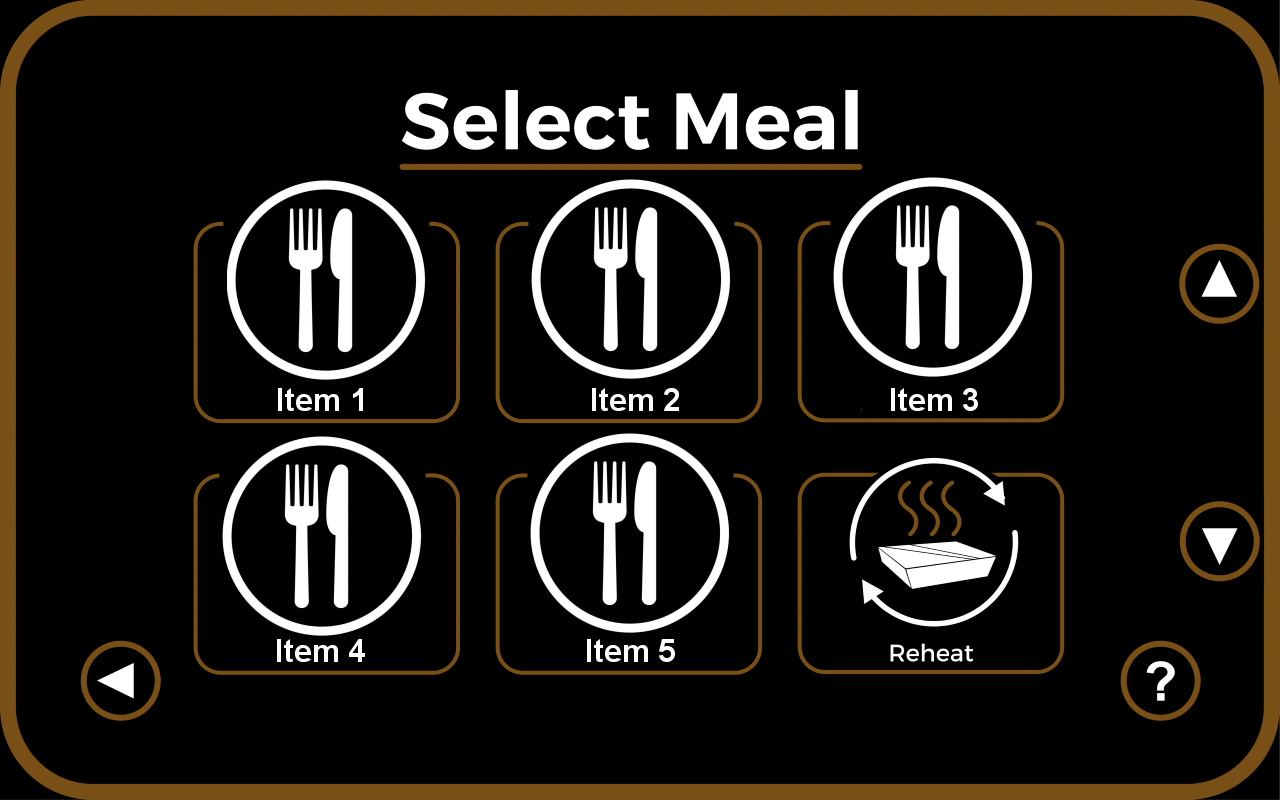
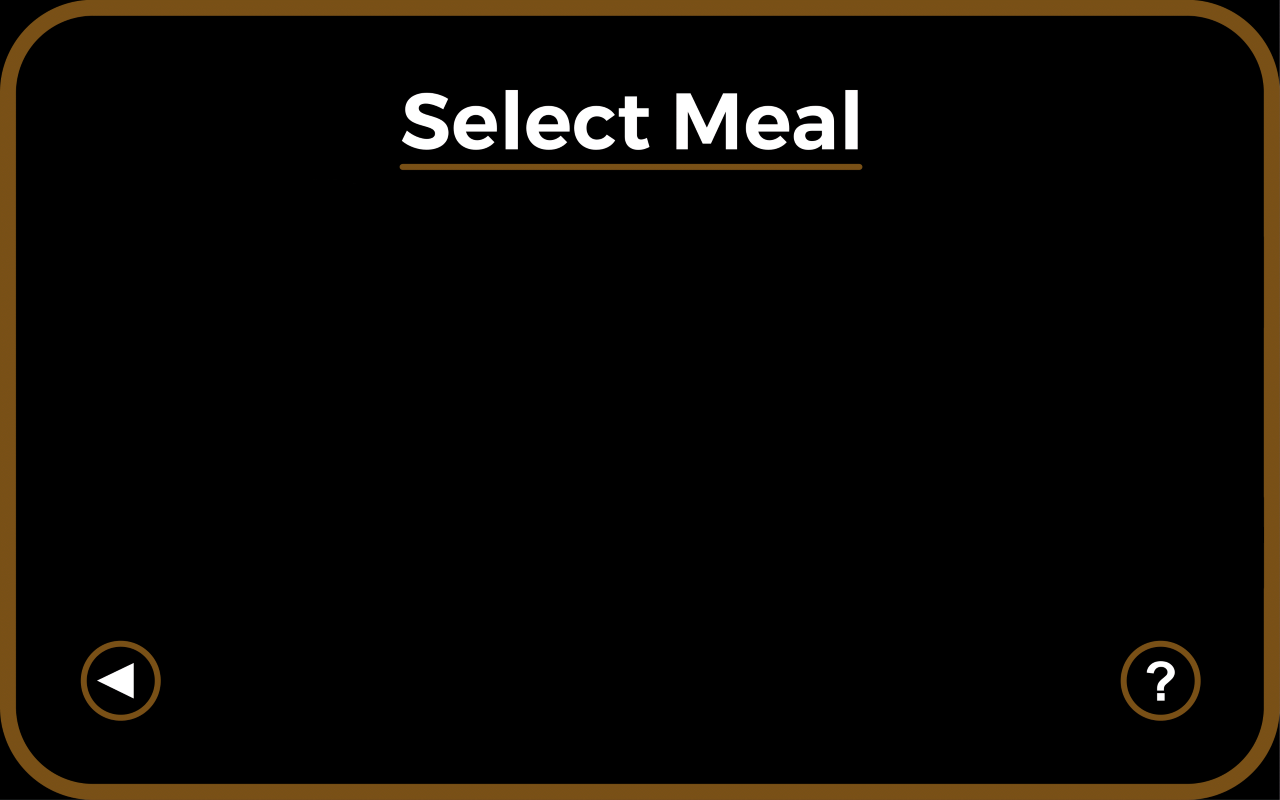
2026/03/31 14:00:39

diff --git a/image_hotspot_view.py b/image_hotspot_view.py
@@ -199,14 +199,36 @@ class ImageHotspotView(ctk.CTkFrame):
 
         return ImageFont.load_default()
 
-    def _draw_triangle_up(self, draw: ImageDraw.ImageDraw, bbox, outline, fill):
+    def _draw_triangle_up(self, draw, bbox, outline, fill, size=16):
         x1, y1, x2, y2 = bbox
-        pts = [((x1 + x2) // 2, y1), (x1, y2), (x2, y2)]
+
+        cx = (x1 + x2) // 2
+        cy = (y1 + y2) // 2
+
+        s = size
+
+        pts = [
+            (cx, cy - s),  # top
+            (cx - s, cy + s),  # bottom left
+            (cx + s, cy + s),  # bottom right
+        ]
+
         draw.polygon(pts, outline=outline, fill=fill)
 
-    def _draw_triangle_down(self, draw: ImageDraw.ImageDraw, bbox, outline, fill):
+    def _draw_triangle_down(self, draw, bbox, outline, fill, size=16):
         x1, y1, x2, y2 = bbox
-        pts = [(x1, y1), (x2, y1), ((x1 + x2) // 2, y2)]
+
+        cx = (x1 + x2) // 2
+        cy = (y1 + y2) // 2
+
+        s = size
+
+        pts = [
+            (cx - s, cy - s),
+            (cx + s, cy - s),
+            (cx, cy + s),
+        ]
+
         draw.polygon(pts, outline=outline, fill=fill)
 
     def _apply_overlay(self, pil_img, page_obj):
@@ -246,9 +268,21 @@ class ImageHotspotView(ctk.CTkFrame):
                     width=width,
                 )
             elif kind == "triangle_up":
-                self._draw_triangle_up(draw, bbox, outline, fill)
+                self._draw_triangle_up(
+                    draw,
+                    bbox,
+                    outline,
+                    fill,
+                    shape.get("size", 16),
+                )
             elif kind == "triangle_down":
-                self._draw_triangle_down(draw, bbox, outline, fill)
+                self._draw_triangle_down(
+                    draw,
+                    bbox,
+                    outline,
+                    fill,
+                    shape.get("size", 16),
+                )
 
         for item in getattr(page_obj, "overlay_text", []):
             xy = item.get("xy")

diff --git a/select_meal_page.py b/select_meal_page.py
@@ -33,8 +33,8 @@ class SelectMealPage:
     QUESTION_RECT = (1110, 637, 1205, 718)
 
     SCROLL_TRACK_RECT = (1190, 215, 1230, 590)
-    SCROLL_UP_RECT = (1170, 215, 1250, 275)
-    SCROLL_DOWN_RECT = (1170, 530, 1250, 590)
+    SCROLL_UP_RECT = (1170, 155, 1250, 230)
+    SCROLL_DOWN_RECT = (1170, 576, 1250, 651)
 
     def __init__(
         self,
@@ -195,32 +195,34 @@ class SelectMealPage:
                 {
                     "kind": "rounded_rect",
                     "bbox": (tx1 + 4, thumb_y, tx2 - 4, thumb_y + thumb_h),
-                    "outline": "#C7A64B",
-                    "fill": "#C7A64B",
+                    "outline": "#444444",
+                    "fill": "#2A2A2A",
                     "width": 1,
                     "radius": 10,
                 }
             )
 
-            # Visible up arrow
+            # SMALL GOLD CHEVRON UP
             self.overlay_shapes.append(
                 {
                     "kind": "triangle_up",
                     "bbox": self.SCROLL_UP_RECT,
-                    "outline": "#F2F2F2",
-                    "fill": "#F2F2F2",
-                    "width": 1,
+                    "outline": "#C7A64B",
+                    "fill": "#C7A64B",
+                    "width": 4,
+                    "size": 20,  # controls how small it is
                 }
             )
 
-            # Visible down arrow
+            # SMALL GOLD CHEVRON DOWN
             self.overlay_shapes.append(
                 {
                     "kind": "triangle_down",
                     "bbox": self.SCROLL_DOWN_RECT,
-                    "outline": "#F2F2F2",
-                    "fill": "#F2F2F2",
-                    "width": 1,
+                    "outline": "#C7A64B",
+                    "fill": "#C7A64B",
+                    "width": 4,
+                    "size": 20,
                 }
             )
 
